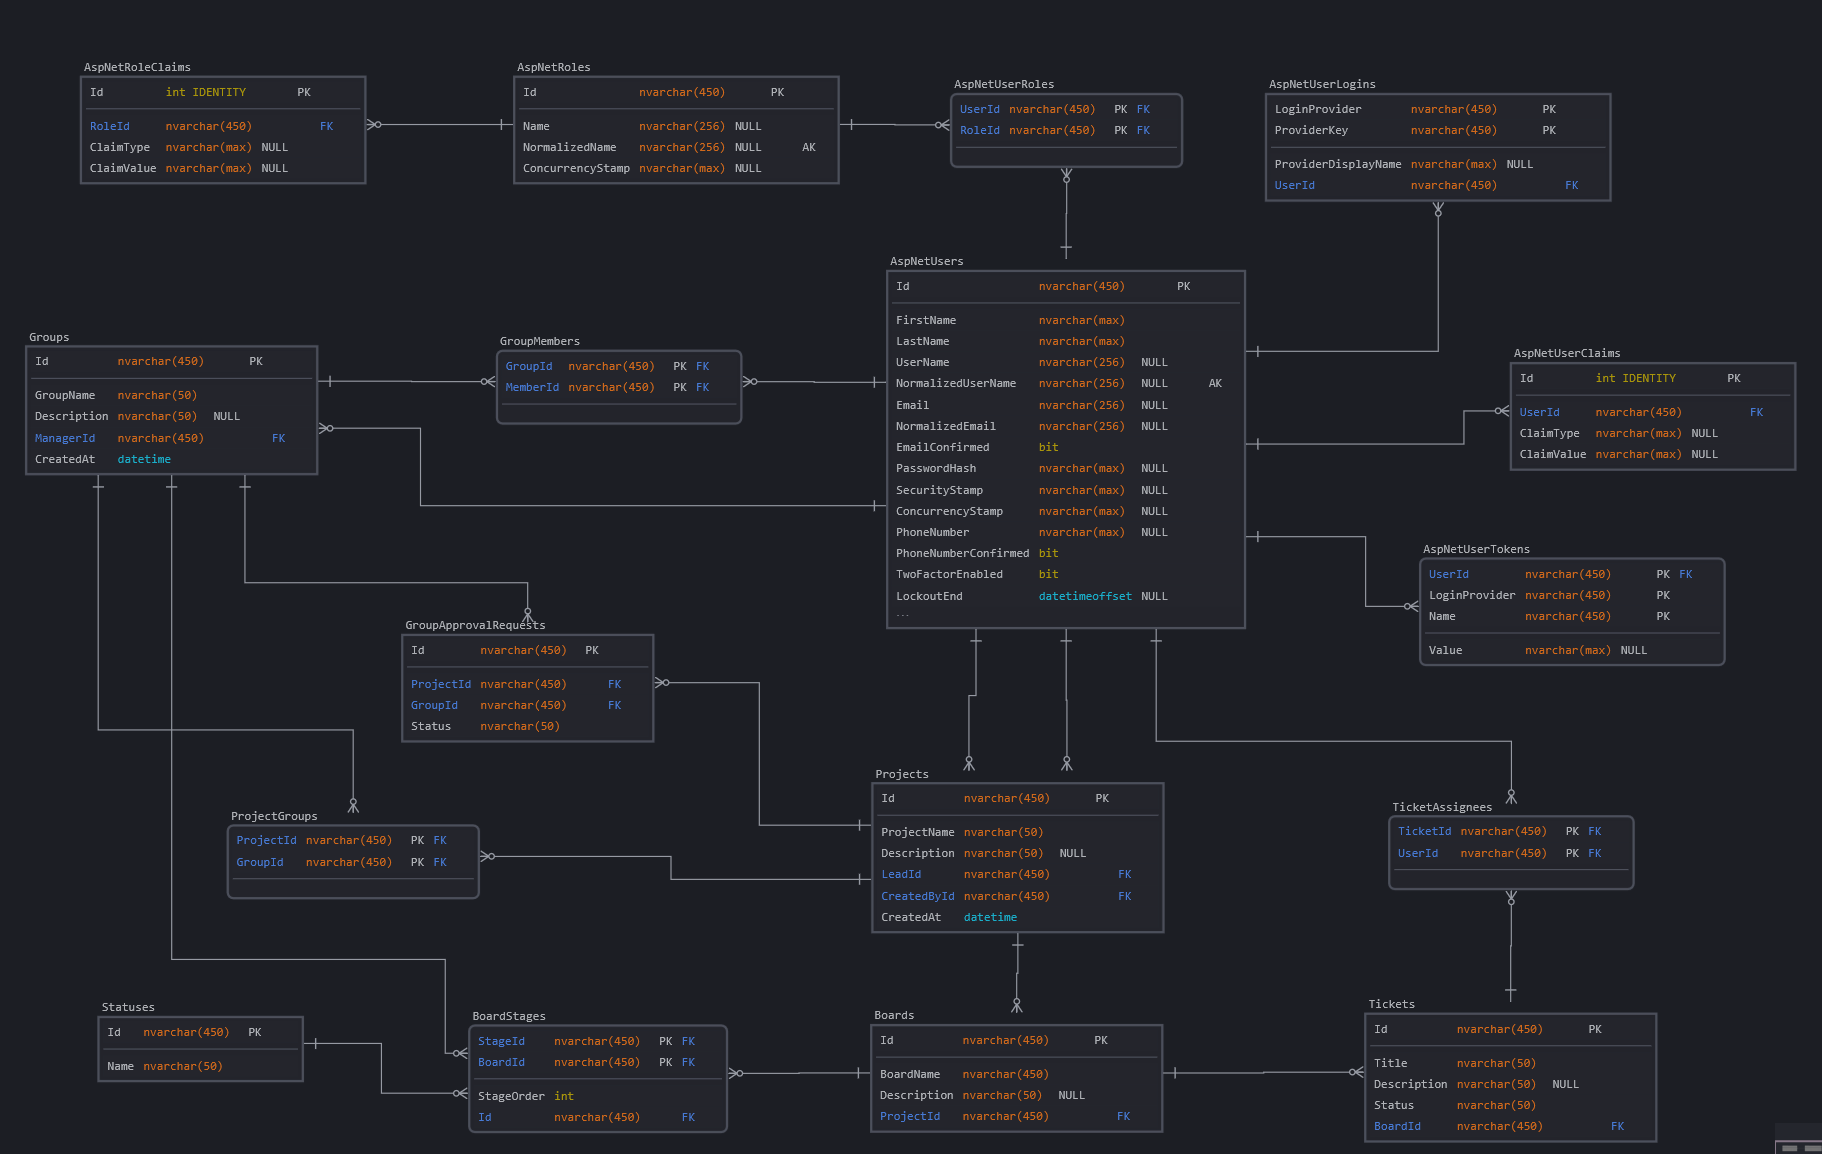
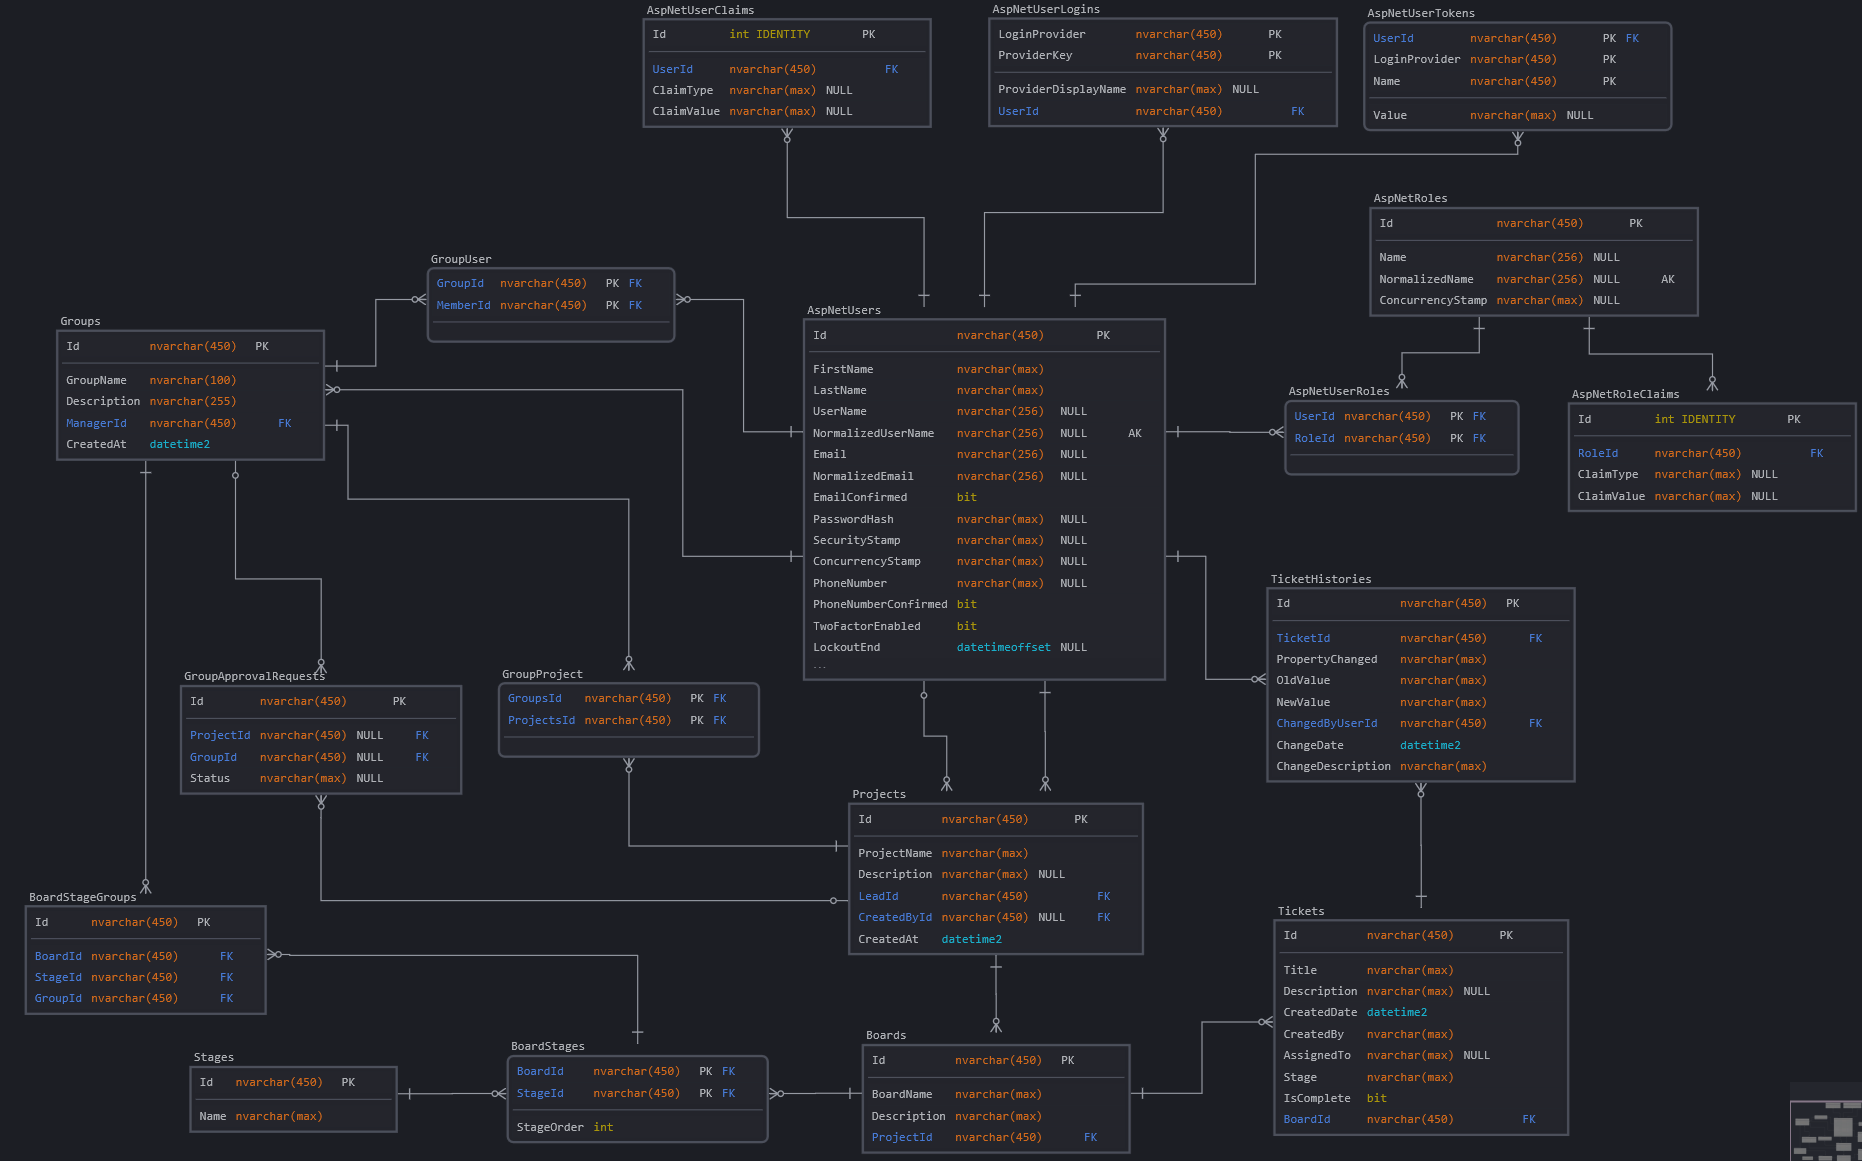
Updated readme and added new ER diagram
1) Updated readme and added new ER diagram to replace old ones

diff --git a/README.md b/README.md
@@ -1,10 +1,26 @@
 # CapstoneGroup3
-A ticketing system for users to manage projects and groups
+A ticketing system for users to manage projects and groups.
+Projects have boards with customizable stages to progress tickets thorugh.
 
 --- Startup ---
 
-Step 1: Run the TicketAppWeb application to create the initial database (you may also need to run the Update-Database command in the package manager console) 
-Step 2: Run the script 'seed data' on the local database created in step 1. The 'seed data' script is found in the code/scripts folder.
+Step 1: Check to see if the local DB, TicketAppDB exists in the SQL Server Object Explorer. If it does exist, delete the local DB.
+Step 2: Once the local DB has been deleted or if it wasn't found originally, run the update-database command in the Nuget Package Manager console.
+Step 3: Check to see if the TicketAppDB was created in the SQL Server Object Explorer.
+Step 4: If TicketAppDB was created sucessfully, copy the script from ...\CapstoneGroup3\code\SQL Scripts\SeedScript.txt
+Step 5: Run the copied script from "SeedScript.txt" on the local database created in step 2 by right clicking the 
+		TicketAppDB found in the SQL Server Object Explorer and selecting "New Query" option. 
+		Press the run query button at the top left of the query window. If sucessfull, the output should show that many rows were modified.
+Step 6: Login as your desired user.
 
-If those two steps worked you should be able to login to the application.
-There should be a seeded admin user even if step 2 was not done.
+There will be a seeded admin user with the credentials:
+Username: Admin
+Password: Admin123!
+
+All user credentials in the application will follow this pattern during development:
+Username: FirstnameLastname (EX: JohnSmith, or JaneDoe)
+Password: FirstnameLastname123!
+
+EX:
+Username: JohnSmith
+Password: JohnSmith123!
